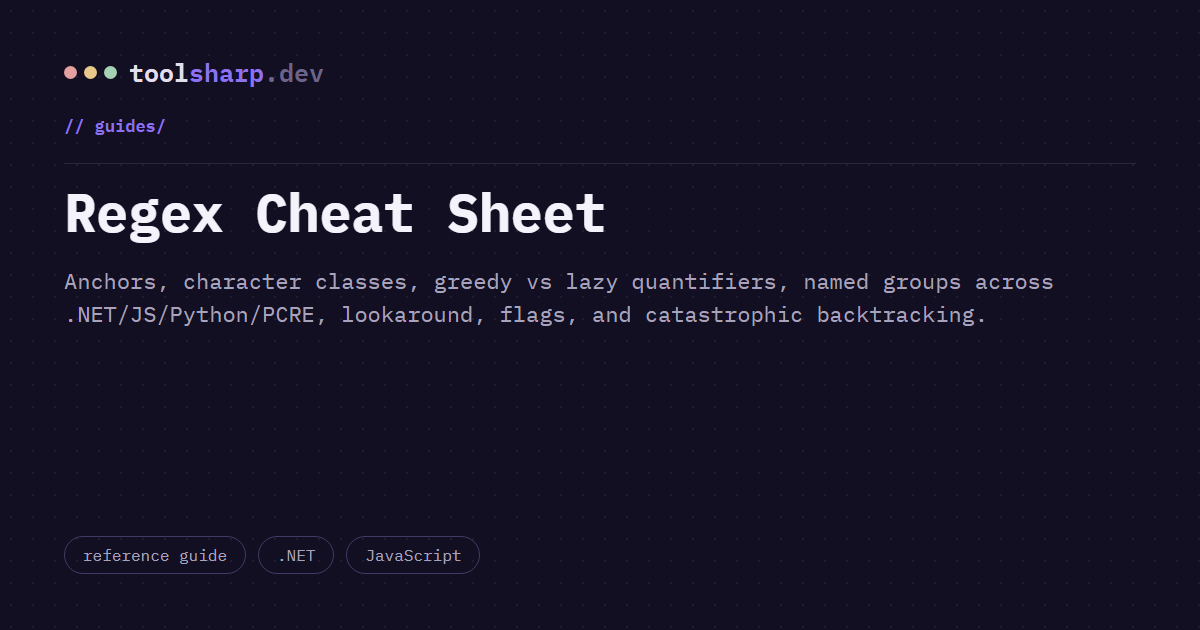
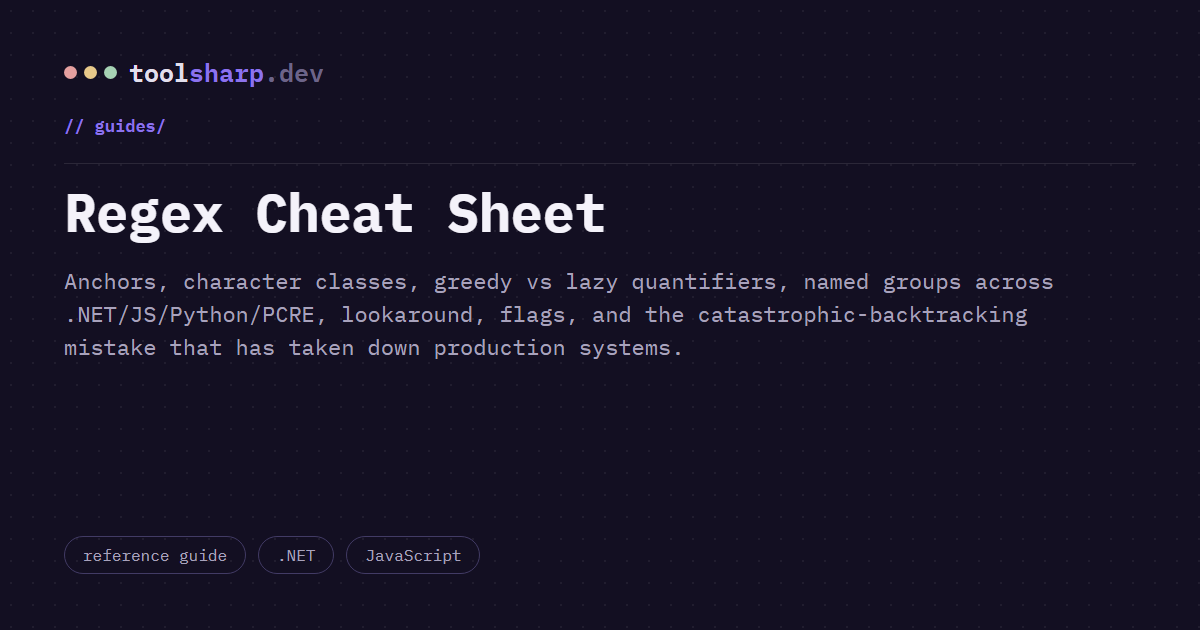
fix(guides): sync meta/OG descriptions, fix mobile overflow in .notes
Five guides had a meta name="description" that had drifted from their
matching og:description/twitter:description/JSON-LD text (SEO snippet
vs social-share preview would have shown different copy for the same
page). Synced all four fields per guide and regenerated the 4 affected
OG images so the picture matches the text again.

Also fixes a real mobile-width overflow: .notes .comment-line is a
flex row, and its <p> had no min-width override, so a long unbroken
inline <code> token (e.g. a full method call) forced the row wider
than the viewport instead of wrapping. Same gap existed for .notes li.
Confirmed via Playwright across all 8 guide pages and all 22 tool
pages (both themes) — previously only 2 guides had been spot-checked
on mobile, and jwt-decoder.html had the identical li-overflow bug.

Changed region(s): [[0.0308, 0.5429, 0.555, 0.573], [0.5242, 0.4825, 0.8633, 0.5127]]

diff --git a/guides/index.html b/guides/index.html
@@ -14,14 +14,14 @@
 <meta property="og:type" content="website">
 <meta property="og:url" content="https://toolsharp.dev/guides">
 <meta property="og:title" content="Guides — ToolSharp.dev">
-<meta property="og:description" content="Reference guides for the syntax and formats developers look up most: cron expressions, JWTs, SQL Server connection strings, and more.">
+<meta property="og:description" content="Reference guides for the syntax and formats developers look up most: cron expressions, JWTs, SQL Server connection strings, regex, and more — read once, bookmarked.">
 <meta property="og:image" content="https://toolsharp.dev/assets/og/guide-index.png">
 <meta property="og:site_name" content="ToolSharp.dev">
 
 <meta name="twitter:card" content="summary_large_image">
 <meta name="twitter:url" content="https://toolsharp.dev/guides">
 <meta name="twitter:title" content="Guides — ToolSharp.dev">
-<meta name="twitter:description" content="Reference guides for the syntax and formats developers look up most: cron expressions, JWTs, SQL Server connection strings, and more.">
+<meta name="twitter:description" content="Reference guides for the syntax and formats developers look up most: cron expressions, JWTs, SQL Server connection strings, regex, and more — read once, bookmarked.">
 <meta name="twitter:image" content="https://toolsharp.dev/assets/og/guide-index.png">
 
 <link rel="preconnect" href="https://fonts.googleapis.com">
@@ -33,7 +33,7 @@
 <script src="../js/speed-insights.js" defer></script>
 <script type="module" src="../js/analytics.bundle.js"></script>
 <script type="application/ld+json">
-{"@context":"https://schema.org","@type":"CollectionPage","name":"ToolSharp.dev Guides","url":"https://toolsharp.dev/guides","description":"Reference guides for the syntax and formats developers look up most."}
+{"@context":"https://schema.org","@type":"CollectionPage","name":"ToolSharp.dev Guides","url":"https://toolsharp.dev/guides","description":"Reference guides for the syntax and formats developers look up most: cron expressions, JWTs, SQL Server connection strings, regex, and more — read once, bookmarked."}
 </script>
 </head>
 <body>

diff --git a/css/style.css b/css/style.css
@@ -466,10 +466,11 @@ body.dark-theme .status-pill.s-good    { background: #092018; color: #50E8A0; }
   margin: 34px 0 16px;
 }
 .notes h2:first-child { border-top: none; padding-top: 0; margin-top: 0; }
-.notes p { color: var(--ink-soft); max-width: 68ch; }
+.notes p { color: var(--ink-soft); max-width: 68ch; overflow-wrap: break-word; }
 .notes .comment-line {
   display: flex; gap: 10px; margin-bottom: 14px; align-items: flex-start;
 }
+.notes .comment-line p { min-width: 0; }
 .notes .comment-line .bar {
   font-family: var(--mono);
   color: var(--violet);
@@ -477,7 +478,7 @@ body.dark-theme .status-pill.s-good    { background: #092018; color: #50E8A0; }
   padding-top: 1px;
 }
 .notes ul { color: var(--ink-soft); padding-left: 20px; max-width: 66ch; }
-.notes li { margin-bottom: 6px; }
+.notes li { margin-bottom: 6px; overflow-wrap: break-word; }
 
 .notes .guide-figure {
   margin: 18px 0 20px;

diff --git a/guides/unix-timestamp-epoch-explained.html b/guides/unix-timestamp-epoch-explained.html
@@ -4,7 +4,7 @@
 <meta charset="UTF-8">
 <meta name="viewport" content="width=device-width, initial-scale=1.0">
 <title>Unix Timestamp &amp; Epoch Time Explained — DST, Leap Seconds &amp; Cross-Language Cheat Sheet — ToolSharp.dev</title>
-<meta name="description" content="Why Unix time is UTC by definition, how DST makes wall-clock time ambiguous, why leap seconds are ignored, and how to get 'now' as epoch in JS, .NET, Python, and SQL.">
+<meta name="description" content="Why Unix time is UTC by definition, how DST makes local wall-clock time ambiguous twice a year, how leap seconds are quietly ignored by design, and how to get 'now' as epoch in JS, .NET, Python, PostgreSQL, and MySQL.">
 <link rel="canonical" href="https://toolsharp.dev/guides/unix-timestamp-epoch-explained">
 <link rel="icon" type="image/svg+xml" href="../favicon.svg">
 <link rel="manifest" href="../manifest.json">

diff --git a/guides/hashing-algorithms-explained.html b/guides/hashing-algorithms-explained.html
@@ -4,7 +4,7 @@
 <meta charset="UTF-8">
 <meta name="viewport" content="width=device-width, initial-scale=1.0">
 <title>Hashing Algorithms Explained — MD5, SHA-256, bcrypt &amp; When to Use Which — ToolSharp.dev</title>
-<meta name="description" content="Why SHA-256 is wrong for passwords, what bcrypt/scrypt/Argon2id do differently, current OWASP-recommended parameters, salting, HMAC, and the attacks that broke MD5 and SHA-1.">
+<meta name="description" content="Why SHA-256 is wrong for passwords, what bcrypt/scrypt/Argon2id actually do differently, current OWASP-recommended parameters, salting, HMAC, and the real collision attacks that broke MD5 and SHA-1.">
 <link rel="canonical" href="https://toolsharp.dev/guides/hashing-algorithms-explained">
 <link rel="icon" type="image/svg+xml" href="../favicon.svg">
 <link rel="manifest" href="../manifest.json">

diff --git a/guides/uuid-guid-versions-explained.html b/guides/uuid-guid-versions-explained.html
@@ -4,7 +4,7 @@
 <meta charset="UTF-8">
 <meta name="viewport" content="width=device-width, initial-scale=1.0">
 <title>UUID/GUID Versions Explained — v1 Through v7, and the .NET Byte-Order Trap — ToolSharp.dev</title>
-<meta name="description" content="What each UUID version (v1-v8) actually encodes, why RFC 9562's new v7 fixes a real database performance problem, and a .NET byte-order quirk that breaks interop.">
+<meta name="description" content="What each UUID version (v1-v8) actually encodes, why RFC 9562's new v7 fixes a real database performance problem, and the .NET byte-order quirk that breaks interop with other systems.">
 <link rel="canonical" href="https://toolsharp.dev/guides/uuid-guid-versions-explained">
 <link rel="icon" type="image/svg+xml" href="../favicon.svg">
 <link rel="manifest" href="../manifest.json">

diff --git a/guides/regex-cheat-sheet.html b/guides/regex-cheat-sheet.html
@@ -4,7 +4,7 @@
 <meta charset="UTF-8">
 <meta name="viewport" content="width=device-width, initial-scale=1.0">
 <title>Regex Cheat Sheet — Syntax, Flags & Patterns That Actually Work — ToolSharp.dev</title>
-<meta name="description" content="Anchors, character classes, greedy vs lazy quantifiers, named groups across .NET/JS/Python/PCRE, lookaround, flags, and catastrophic backtracking.">
+<meta name="description" content="Anchors, character classes, greedy vs lazy quantifiers, named groups across .NET/JS/Python/PCRE, lookaround, flags, and the catastrophic-backtracking mistake that has taken down production systems.">
 <link rel="canonical" href="https://toolsharp.dev/guides/regex-cheat-sheet">
 <link rel="icon" type="image/svg+xml" href="../favicon.svg">
 <link rel="manifest" href="../manifest.json">
